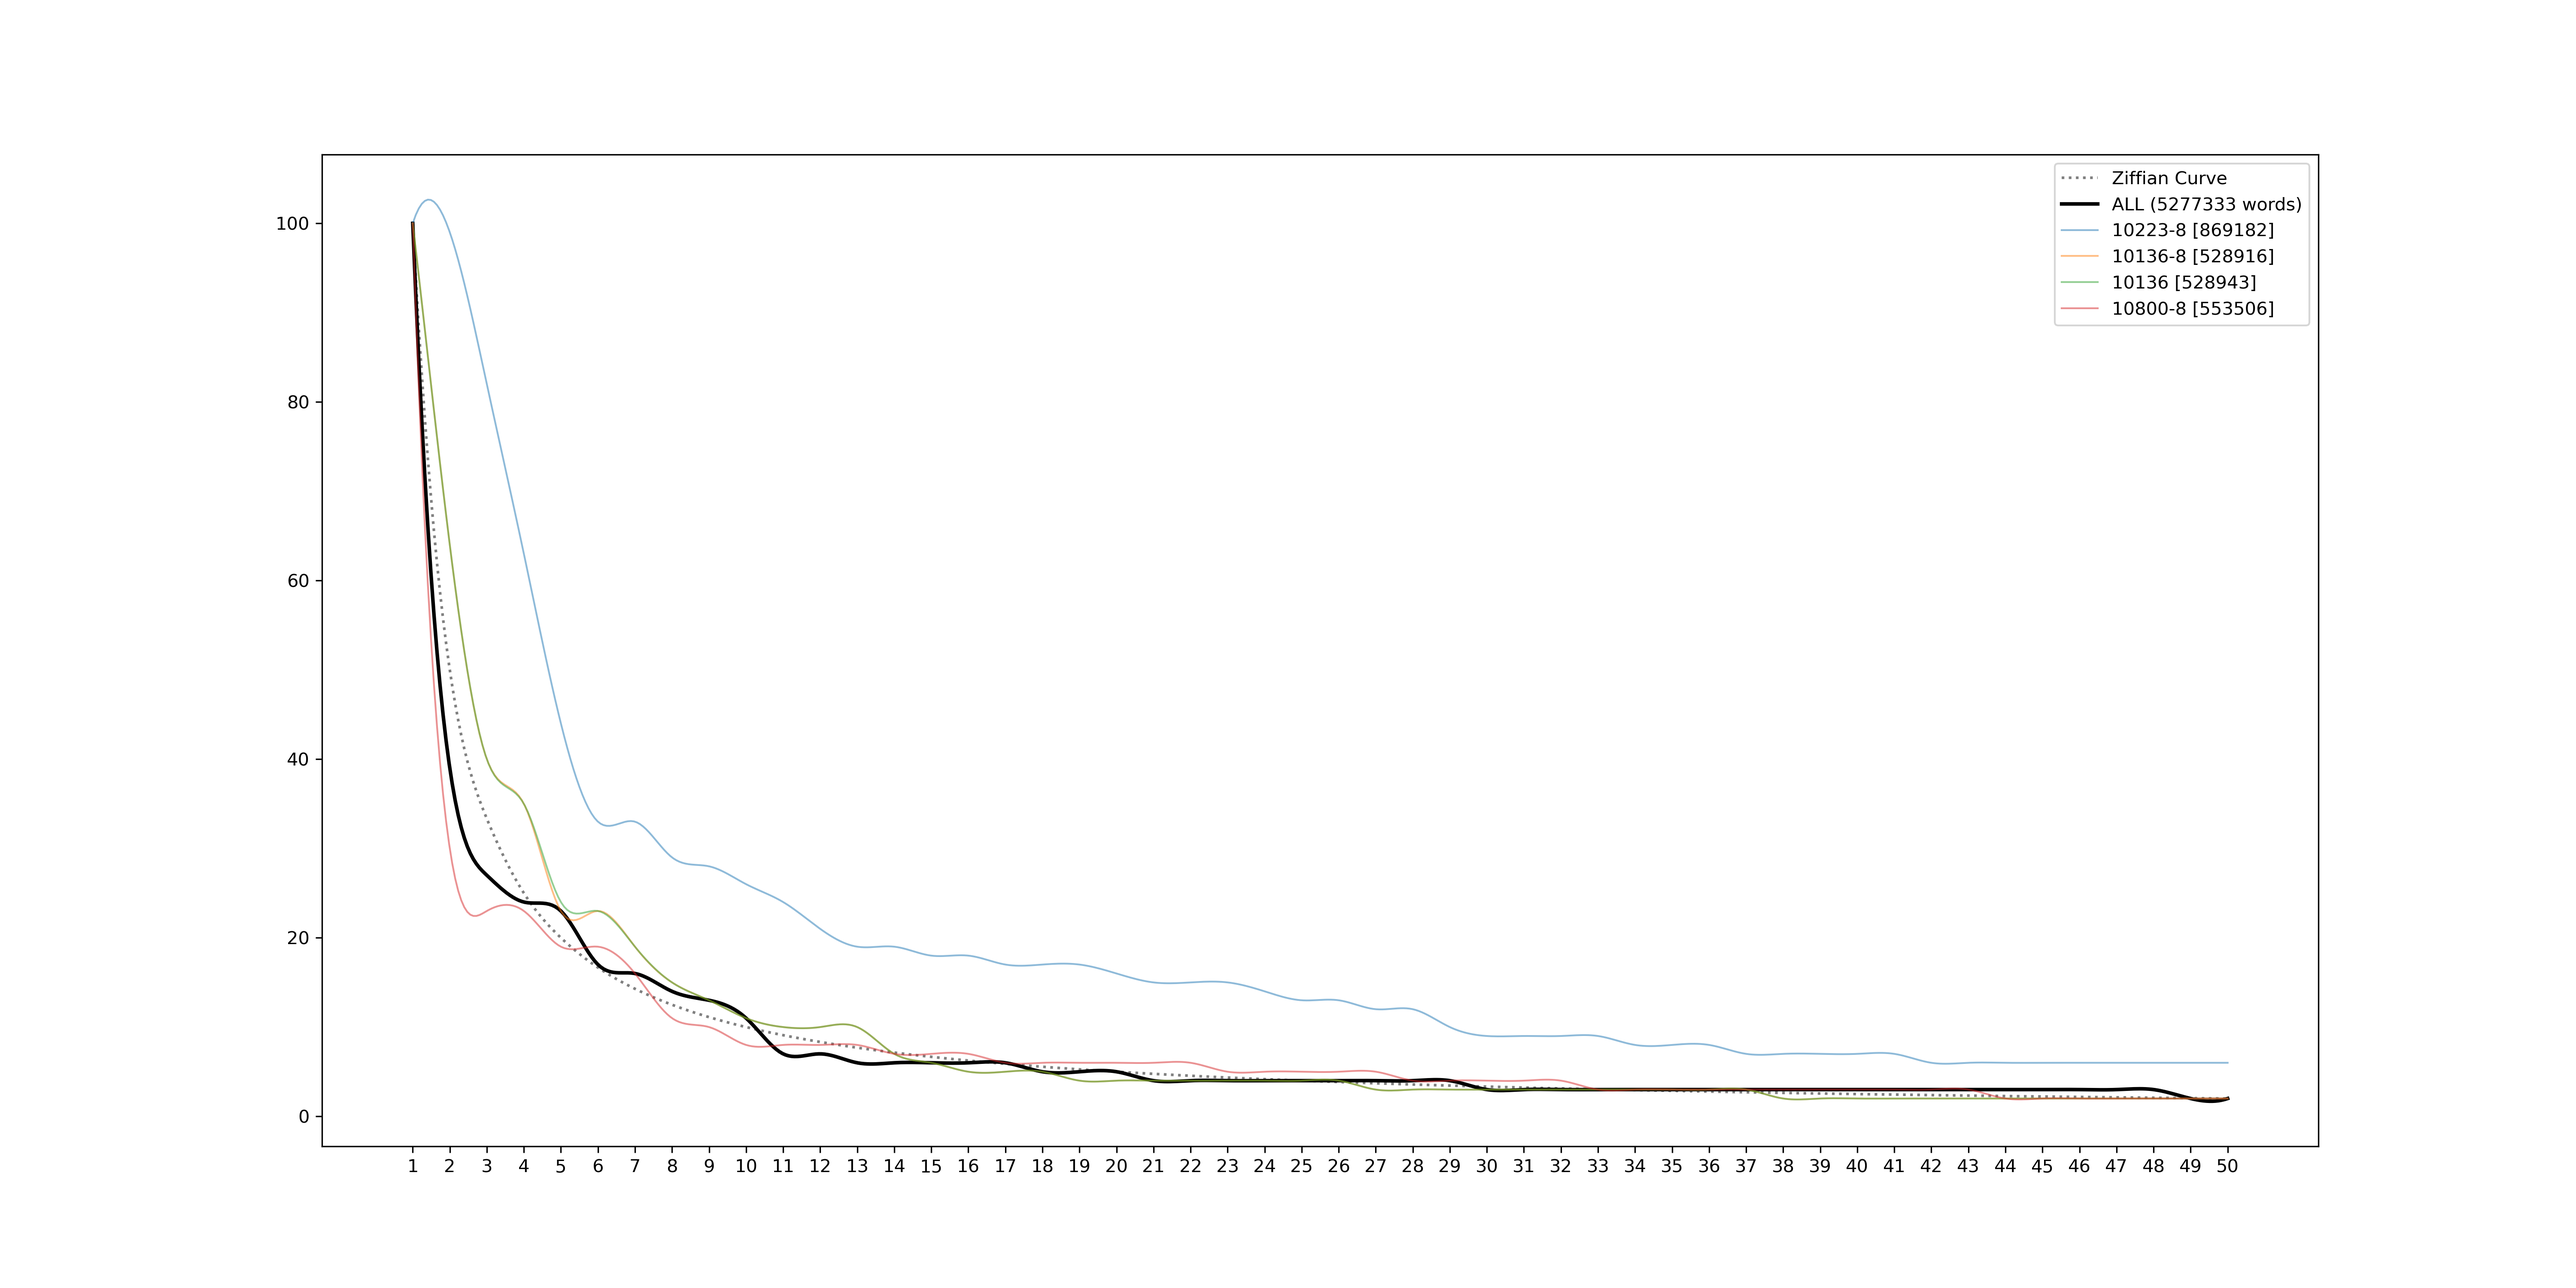
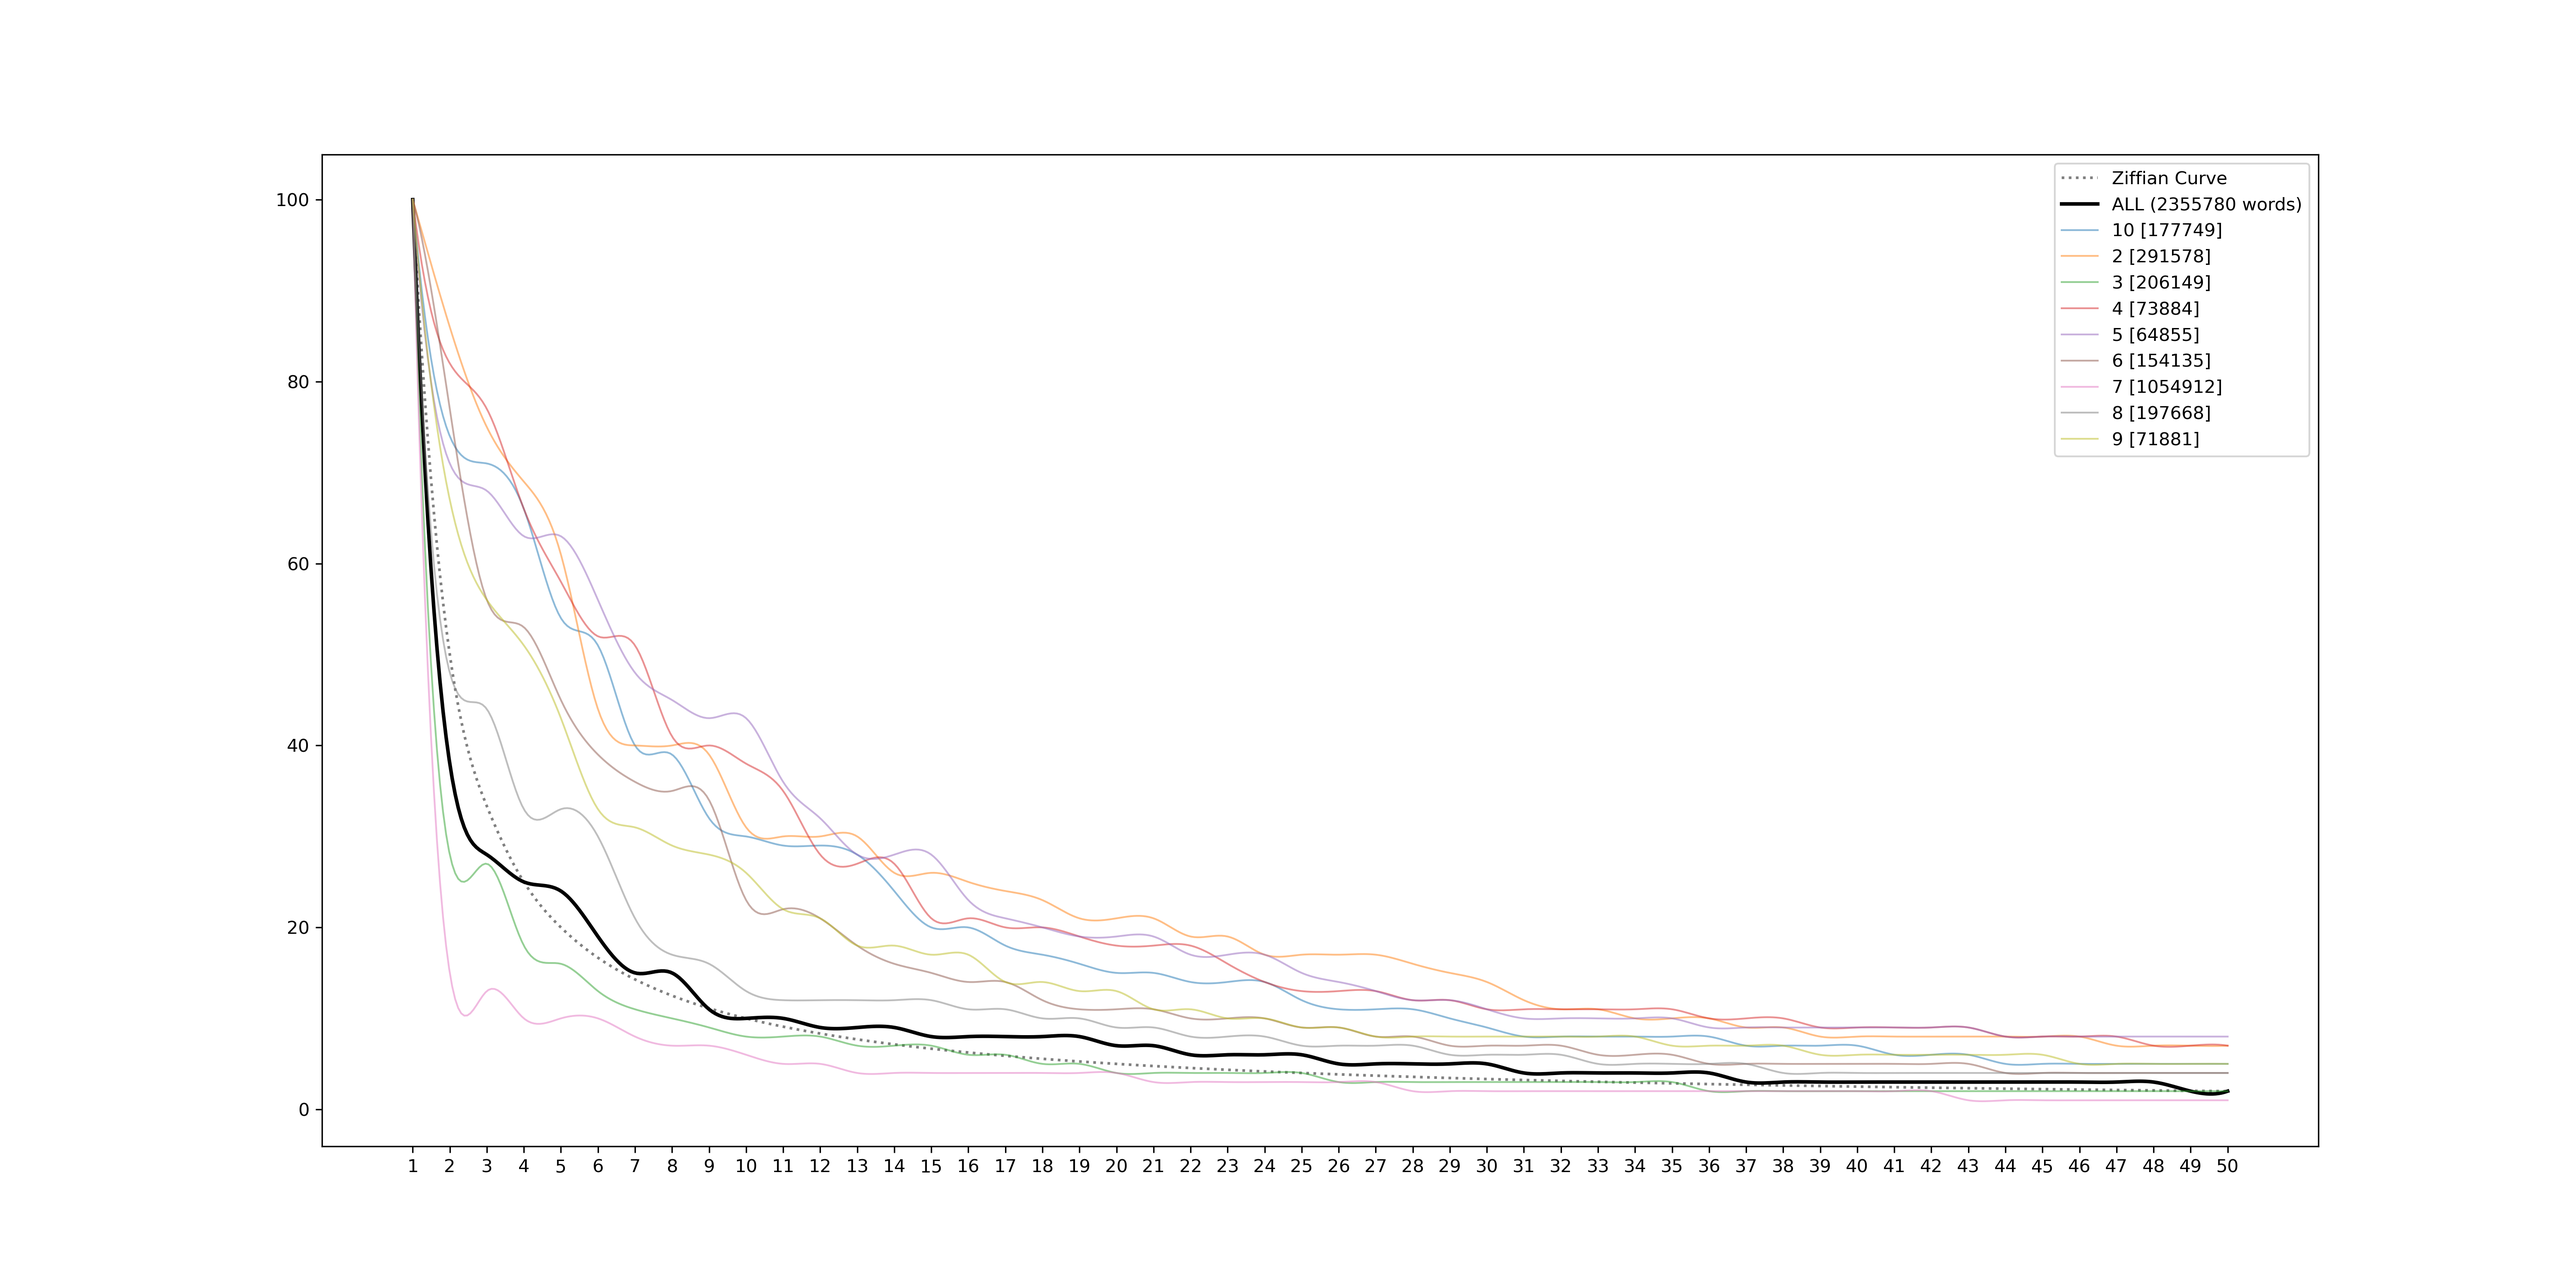
update plot

diff --git a/scripts/gutenwords2.py b/scripts/gutenwords2.py
@@ -7,7 +7,7 @@ but keeping the original data structure
 
 import logging
 
-def lines(file, from_line="***START OF", to_line="***END OF"):
+def lines(file, from_line="", to_line=""):
     """
     Iterator on file lines (stripped from newlines):
     Given a text file will return all the lines between line starting with
@@ -66,8 +66,8 @@ if __name__ == "__main__":
     args.add_argument("-m", "--max", help="Max files to process, 0 for all [default: %(default)s]", type=int, default=1000)
     args.add_argument("-p", "--max-plot", help="Max files to plot, 0 for all [default: %(default)s]", type=int, default=20)
     
-    args.add_argument("--start", help="Start of the manuscript [default: %(default)s]", default="***START OF")
-    args.add_argument("--end", help="End of the manuscript [default: %(default)s]", default="***END OF")
+    args.add_argument("--start", help="Start of the manuscript [default: %(default)s]", default="*** START OF")
+    args.add_argument("--end", help="End of the manuscript [default: %(default)s]", default="*** END OF")
     args.add_argument("--verbose", help="Verbose output", action="store_true")
     args.add_argument("--debug", help="Debug output", action="store_true")
     args = args.parse_args()

diff --git a/scripts/gutenwords.py b/scripts/gutenwords.py
@@ -66,8 +66,8 @@ if __name__ == "__main__":
     args = argparse.ArgumentParser("Analyse the frequency of words in a set of Gutenberg files")
     args.add_argument("FILES", help="Input files", nargs="+")
     args.add_argument("-n", "--num", help="Number of top words to report", type=int, default=10)
-    args.add_argument("--start", help="Start of the manuscript", default="***START OF")
-    args.add_argument("--end", help="End of the manuscript", default="***END OF")
+    args.add_argument("--start", help="Start of the manuscript", default="*** START OF")
+    args.add_argument("--end", help="End of the manuscript", default="*** END OF")
     args.add_argument("--plot-file", help="Plot the top words as png file")
     args.add_argument("--verbose", help="Verbose output", action="store_true")
     args.add_argument("--debug", help="Debug output", action="store_true")
